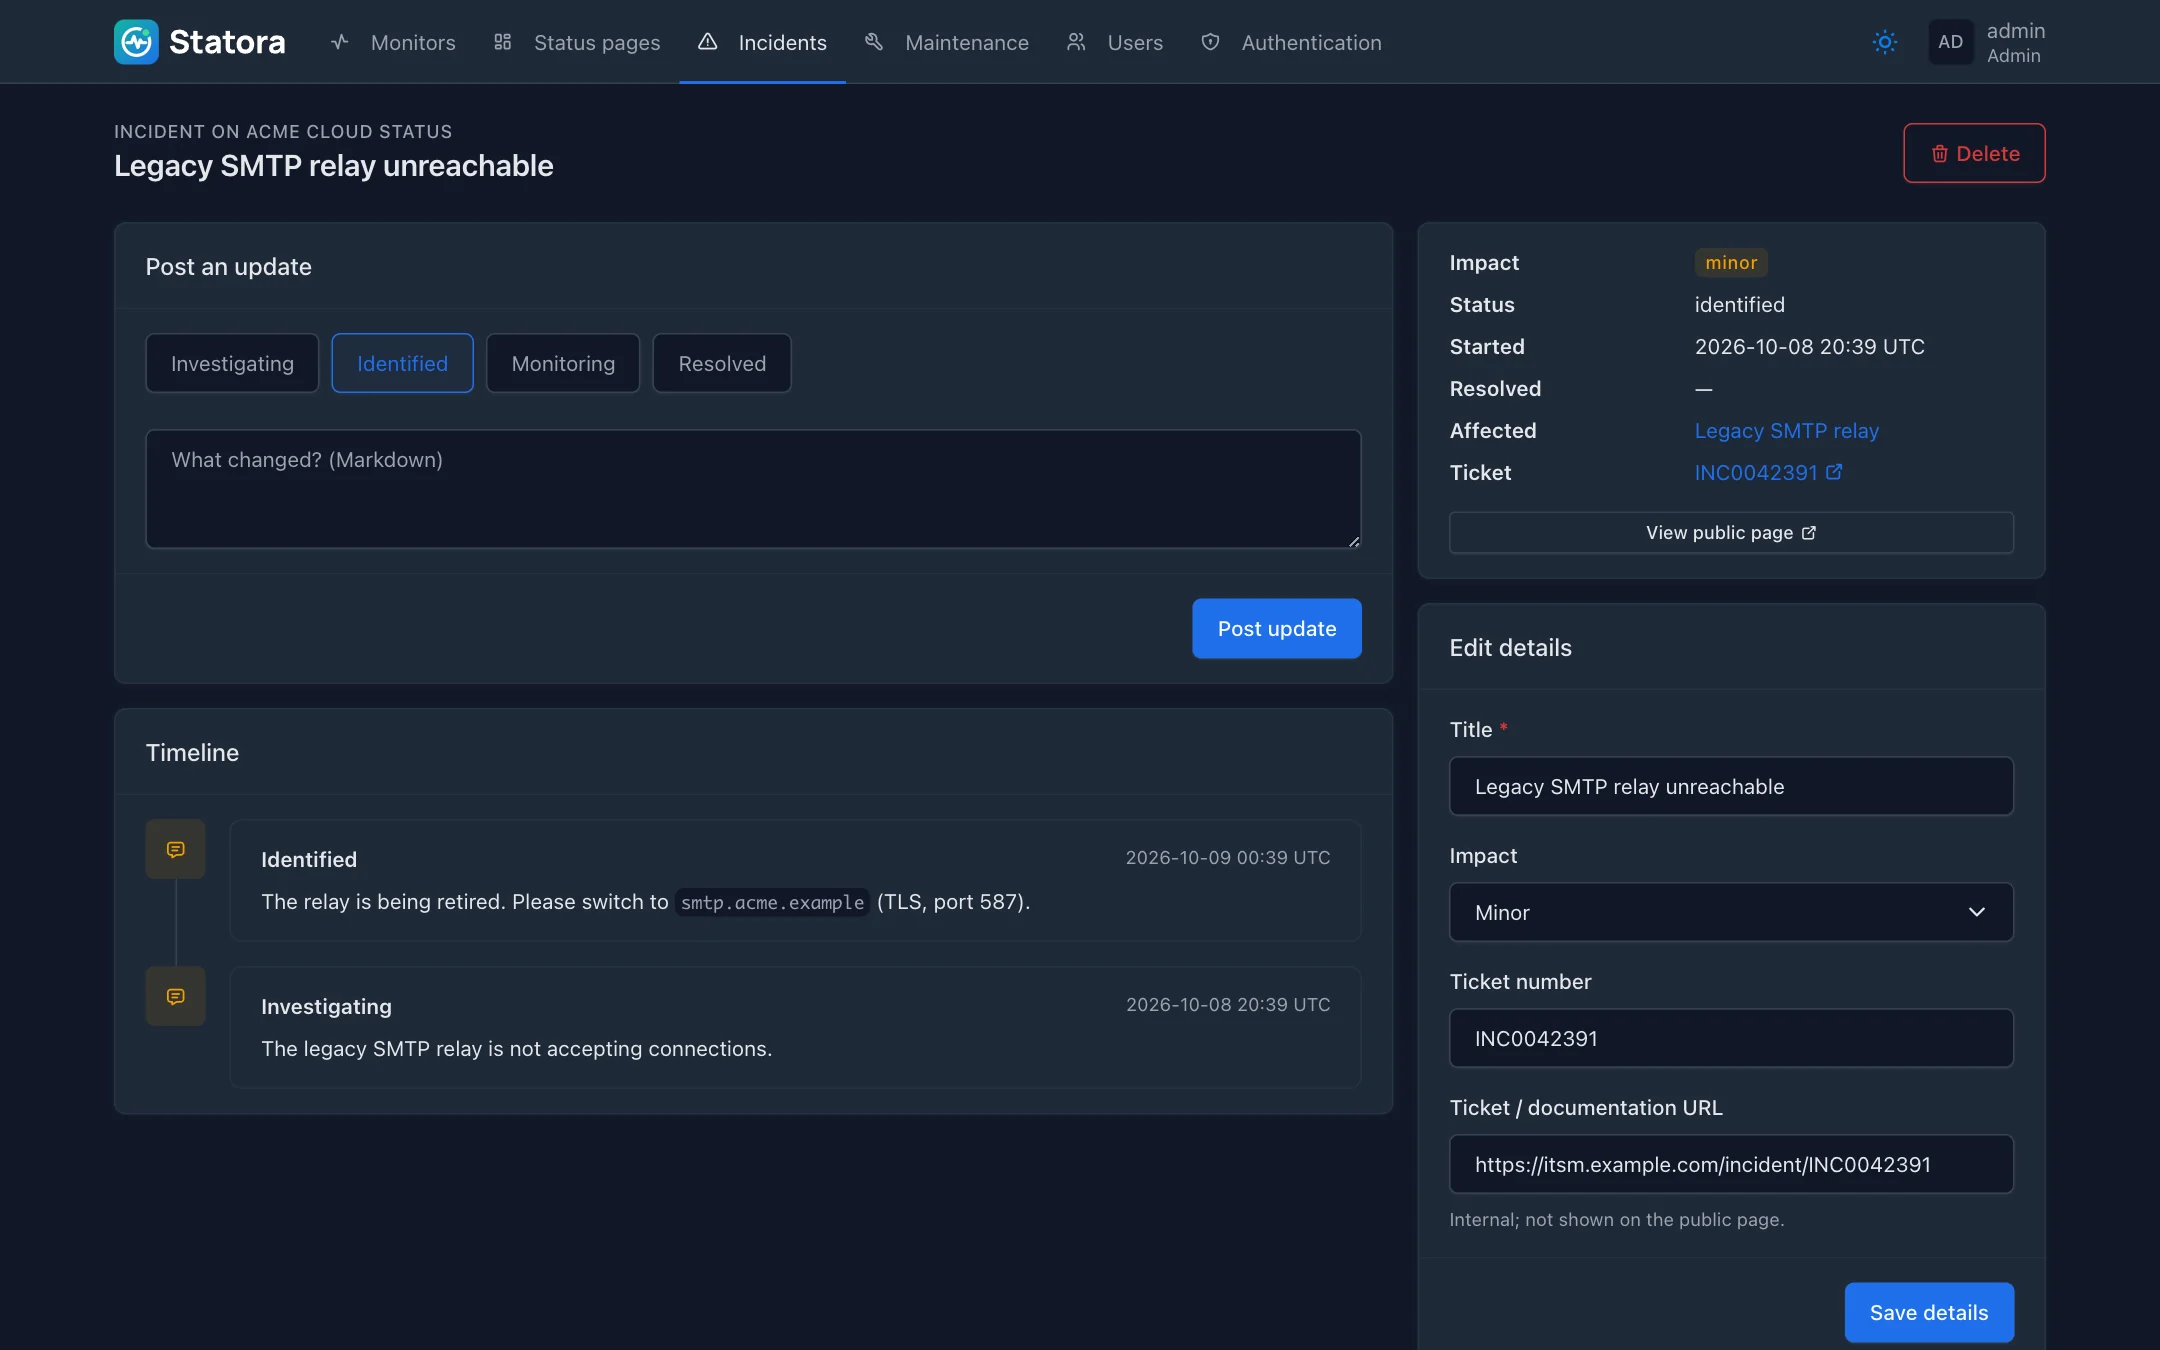
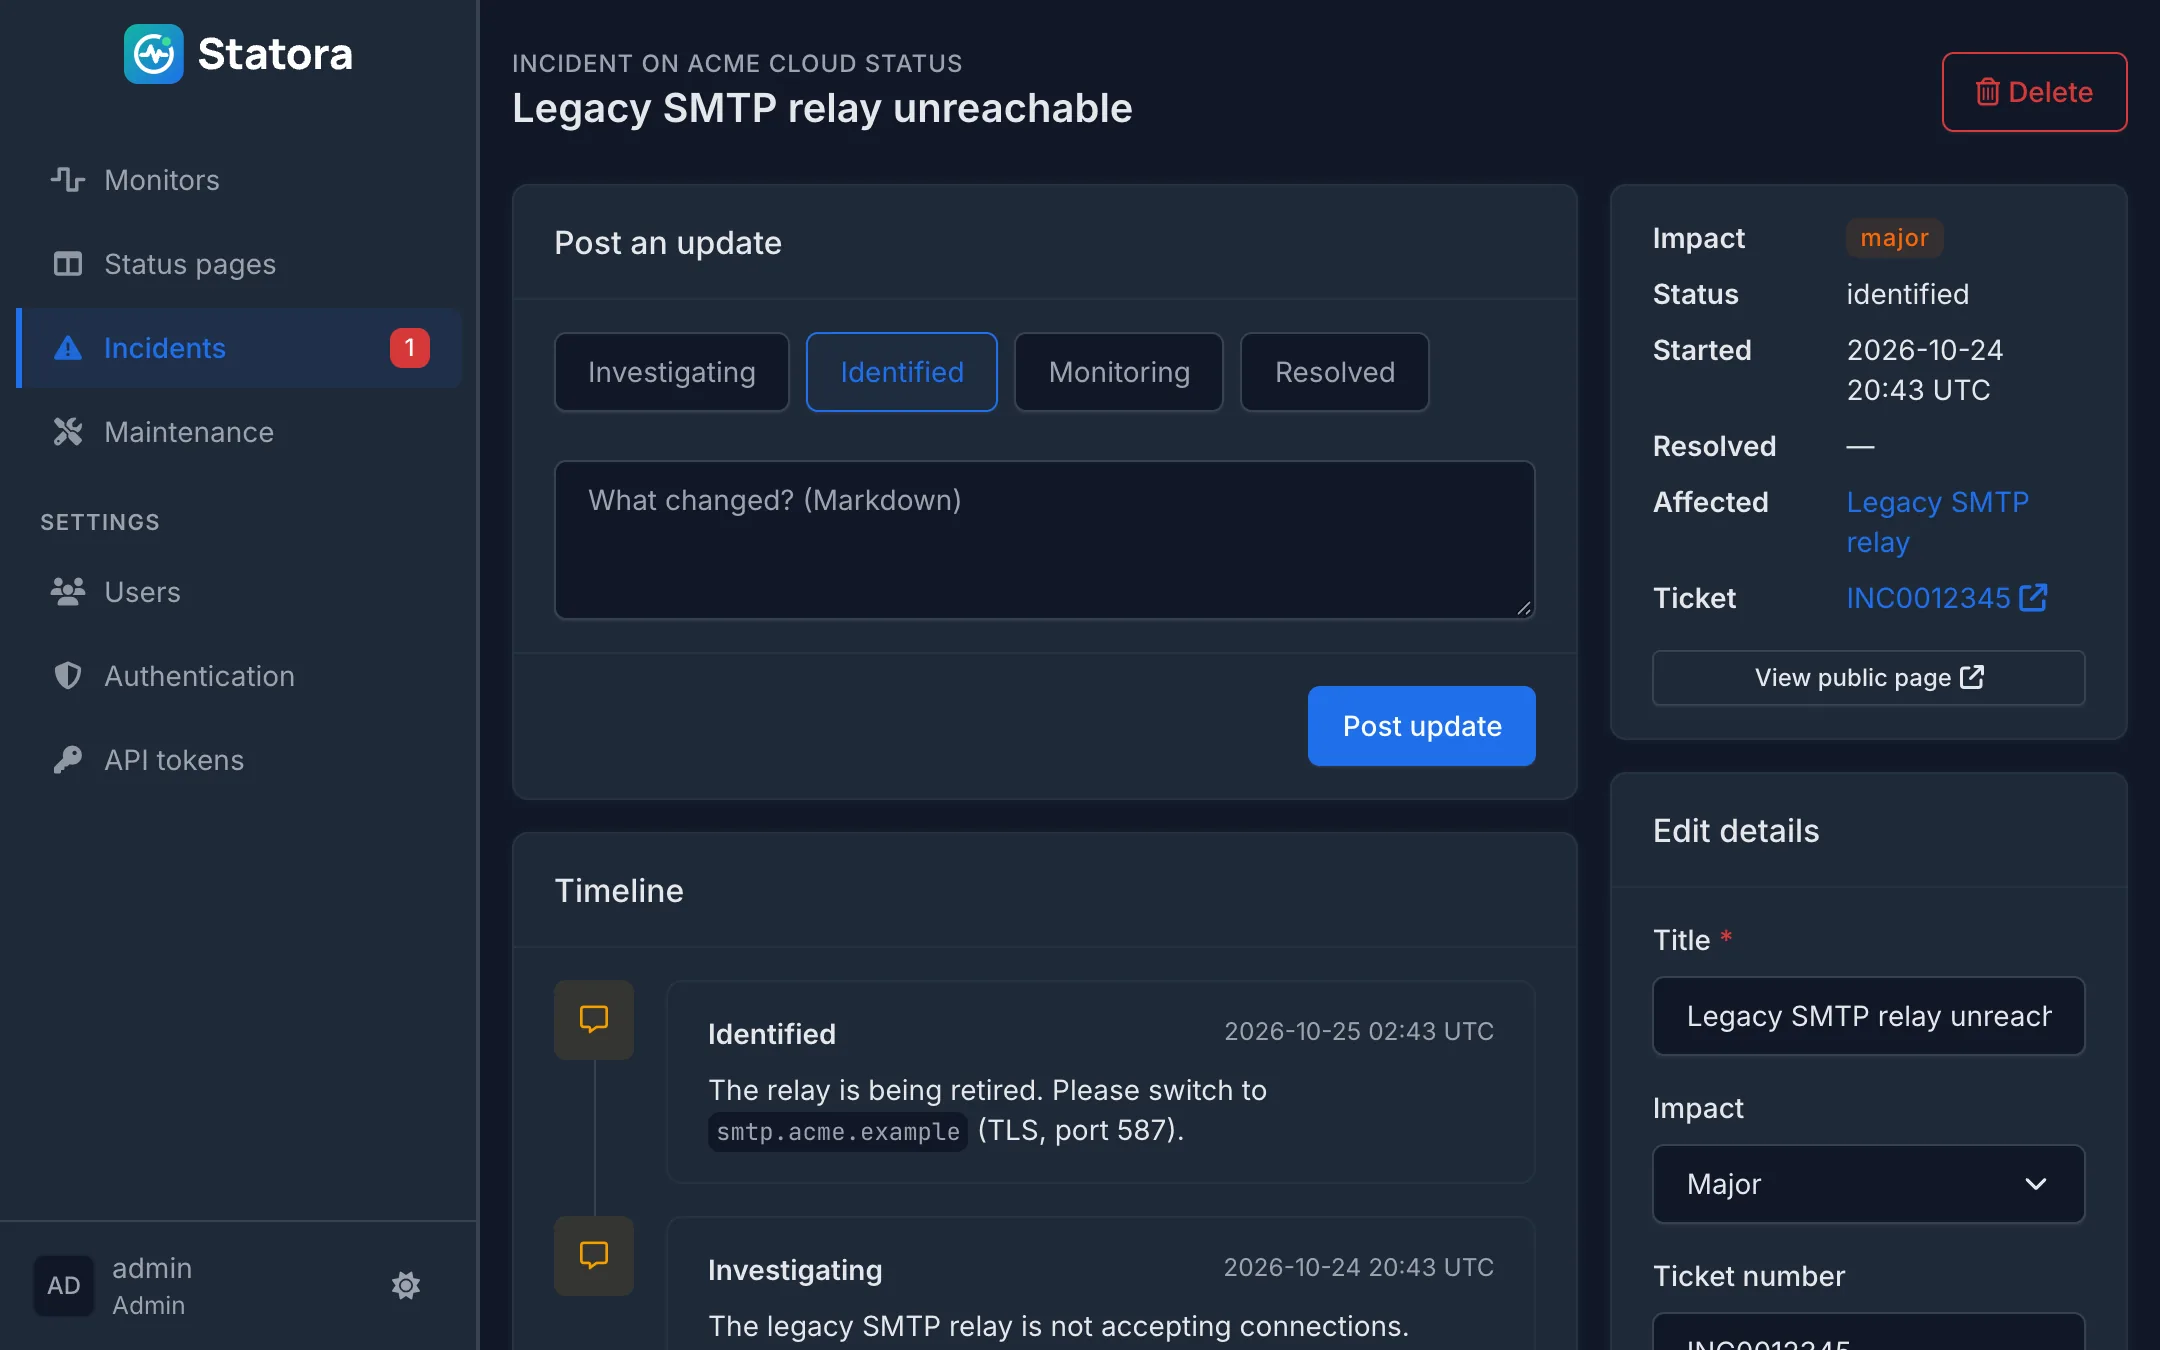
APP-23: Refresh the docs screenshots for the 1.2.0 design
- Retake all screenshots (2160x1350 WebP) from a seeded demo instance in
  the new design: sidebar, dashboard, status card and timeline, dialogs,
  icons and favicon.
- New screenshots: tile view, monitor icon picker, status pages overview
  and the status page settings dialog.
- Screenshots page captions and the monitors and status pages guides now
  describe the dashboard, tile view and wallboard, the dialogs, monitor
  icons and links, and per-page favicons.

diff --git a/docs/screenshots.md b/docs/screenshots.md
@@ -9,23 +9,31 @@ All screenshots come from a demo instance with sample data, using `statora seed`
 
 ## Status page
 
-<figure class="shot"><img src="/screenshots/status-page-light.webp" alt="Status page in light mode" loading="lazy"><figcaption>The public status page with an active incident, scheduled maintenance and 90-day uptime bars.</figcaption></figure>
+<figure class="shot"><img src="/screenshots/status-page-light.webp" alt="Status page in light mode" loading="lazy"><figcaption>The public status page: the overall status with the active incident's timeline, scheduled maintenance, and 120-day uptime bars. Components show their icon and link to the app behind them.</figcaption></figure>
 
 <figure class="shot"><img src="/screenshots/status-page-dark.webp" alt="Status page in dark mode with an expanded redundancy group" loading="lazy"><figcaption>Dark mode, with a redundancy group expanded to show its members.</figcaption></figure>
 
 ## Monitoring
 
-<figure class="shot"><img src="/screenshots/dashboard.webp" alt="Admin dashboard" loading="lazy"><figcaption>The dashboard: status counts, the last 30 checks, 24-hour uptime and latency for every monitor.</figcaption></figure>
+<figure class="shot"><img src="/screenshots/dashboard.webp" alt="Admin dashboard" loading="lazy"><figcaption>The dashboard: how many monitors are up, problems first, the last 30 checks, 24-hour uptime and latency. Search and filter by type, or press <kbd>/</kbd>.</figcaption></figure>
+
+<figure class="shot"><img src="/screenshots/dashboard-tiles.webp" alt="Monitors as tiles" loading="lazy"><figcaption>The tile view. Failing monitors get bigger tiles with the last error and quick actions; <code>/admin?kiosk=1</code> shows the tiles full screen as a wallboard.</figcaption></figure>
 
 <figure class="shot"><img src="/screenshots/monitor-detail.webp" alt="Monitor detail page with a latency chart" loading="lazy"><figcaption>Monitor details: 24-hour latency chart, status changes, configuration and the groups it belongs to.</figcaption></figure>
 
 <figure class="shot"><img src="/screenshots/group-detail.webp" alt="Redundancy group with its members" loading="lazy"><figcaption>A redundancy group and the live status of each member.</figcaption></figure>
 
-<figure class="shot"><img src="/screenshots/group-form.webp" alt="Creating a redundancy group with the two-column member picker" loading="lazy"><figcaption>Creating a group: stack or redundancy, the number of members that must be up, and a two-column member picker.</figcaption></figure>
+<figure class="shot"><img src="/screenshots/group-form.webp" alt="Editing a redundancy group with the two-column member picker" loading="lazy"><figcaption>Editing a group in a dialog: stack or redundancy, the number of members that must be up, and a two-column member picker.</figcaption></figure>
+
+<figure class="shot"><img src="/screenshots/monitor-icon.webp" alt="Choosing a monitor icon" loading="lazy"><figcaption>Giving a monitor an icon: search the bundled Font Awesome icons, upload an image or paste a URL, and add a link to the app behind it.</figcaption></figure>
 
 ## Status pages, incidents and maintenance
 
-<figure class="shot"><img src="/screenshots/page-builder.webp" alt="Status page editor" loading="lazy"><figcaption>The status page editor: components, public names, branding, and a button to open the live page.</figcaption></figure>
+<figure class="shot"><img src="/screenshots/status-pages.webp" alt="Status pages overview" loading="lazy"><figcaption>All status pages with their current status, favicon and size.</figcaption></figure>
+
+<figure class="shot"><img src="/screenshots/page-settings.webp" alt="Status page settings dialog" loading="lazy"><figcaption>Status page settings in a dialog: title, address, description, favicon, logo, accent colour and uptime bars.</figcaption></figure>
+
+<figure class="shot"><img src="/screenshots/page-builder.webp" alt="Status page components editor" loading="lazy"><figcaption>The components editor: groups, public names, and drag and drop to reorder.</figcaption></figure>
 
 <figure class="shot"><img src="/screenshots/incident.webp" alt="Incident with timeline and ITSM ticket" loading="lazy"><figcaption>An incident with its update timeline and an internal ITSM ticket reference.</figcaption></figure>
 

diff --git a/docs/guide/status-pages.md b/docs/guide/status-pages.md
@@ -4,6 +4,8 @@ Status pages are public, need no login, and are built under **Status pages** in 
 
 ## Building a page
 
+**New status page** opens a dialog with the page settings. After creating the page you land in its components editor. Later, **Settings** (on the overview or in the editor) reopens the settings dialog and **Components** opens the editor.
+
 - **Title, slug and description**: the page lives at `/s/<slug>`. The description and footer accept Markdown.
 - **Components**: add groups (such as "Websites" or "Infrastructure") and fill them with monitors, each with an optional public name. Drag groups and monitors by their grip handle to reorder them, or drag a monitor into another group. The arrow buttons do the same from the keyboard.
 - **Uptime bars**: how much history each component shows. Every option draws 120 bars:
@@ -16,17 +18,20 @@ Status pages are public, need no login, and are built under **Status pages** in 
 
   Minute and hour bars are calculated from raw check results, so they reach back only as far as `STATORA_HEARTBEAT_RETENTION_DAYS` (default 30 days). Keep it at 5 days or more for hourly bars. A monitor that checks less often than once a minute (or hour) has bars without a check of their own. They continue the previous result, and their tooltip says so.
 - **Accent colour and logo**: shown in the header and used for links.
+- **Favicon**: the browser-tab icon of this page. Upload a PNG, SVG, ICO, WebP, GIF or JPEG (up to 256 KB) or paste a URL. Without one, the page uses the Statora icon.
 - **Published**: unpublished pages return 404.
 - **Default page**: served at `/` as well.
 - **Show "Powered by Statora"**: on by default; switch it off for a fully white-label page.
 
 The **View status page** button at the top of the editor opens the live page.
 
+Icons and links shown next to components are set on the monitors themselves (see [Monitors](./monitors)), so they're the same on every page.
+
 ## What visitors see
 
-- An overall banner: *All Systems Operational*, *Degraded Performance*, *Partial* or *Major System Outage*, or *Under Maintenance*. It's derived from component states and the impact of active incidents.
-- Active incidents with their full timeline, and upcoming or ongoing maintenance.
-- Every component with 120 uptime bars, per minute, hour or day depending on the page. Hovering a bar shows its uptime and failed checks.
+- An overall status card: *All Systems Operational*, *Degraded Performance*, *Partial* or *Major System Outage*, or *Under Maintenance*. It's derived from component states and the impact of active incidents, and says how many components are affected.
+- Active incidents with their full timeline inside the status card, and upcoming or ongoing maintenance.
+- Every component with its icon, its uptime, and 120 uptime bars, per minute, hour or day depending on the page. Hovering a bar shows its uptime and failed checks. Components with a link open the app behind them.
 - Groups that expand to show their members.
 - Incidents from the last 14 days.
 - A light/dark toggle. The page follows the visitor's system setting until they choose, then remembers the choice.

diff --git a/docs/guide/monitors.md b/docs/guide/monitors.md
@@ -1,6 +1,6 @@
 # Monitors
 
-A monitor runs one check on a schedule. Create one under **Monitors → New monitor**, or with `POST /api/v1/monitors`.
+A monitor runs one check on a schedule. Create one under **Monitors → New monitor** (or press <kbd>n</kbd> on the monitor list), or with `POST /api/v1/monitors`. The form opens in a dialog over the list.
 
 ## Common settings
 
@@ -11,6 +11,15 @@ A monitor runs one check on a schedule. Create one under **Monitors → New moni
 | Retries before down | 1 (UI) / 0 (API) | Extra consecutive failures tolerated. While retrying, the monitor shows as pending and the failures still count as up. |
 | Degraded above | none | Responses slower than this (ms) report *degraded* instead of *up*. |
 | Active | on | Paused monitors keep their history but aren't checked. |
+
+## Icon and link
+
+Under **Appearance** a monitor can get:
+
+- an **icon**: pick one of the bundled Font Awesome icons (brand logos included), upload an image (PNG, JPEG, WebP, GIF, ICO or SVG, up to 256 KB), or paste an image URL. In the API this is `icon`: `fa:brands:github`, an upload's `media:<sha256>` from `POST /api/v1/media`, or an http(s) URL;
+- a **link** (`link_url`) to the app behind the monitor, http(s) only.
+
+Both show in the monitor list and on every status page that includes the monitor. There, the component name links to the app.
 
 ## HTTP(S)
 
@@ -73,7 +82,8 @@ The query runs in a read-only transaction that is always rolled back: PostgreSQL
 
 ## What you see
 
-- The **dashboard** shows every monitor with its last 30 checks, 24-hour uptime and latency, and refreshes itself every 15 seconds.
+- The **dashboard** shows how many monitors are up, then every monitor with its last 30 checks, 24-hour uptime and latency, failing ones first. It refreshes itself every 15 seconds. Search with <kbd>/</kbd>, filter by problems or type, and expand groups to see their members.
+- The **tile view** (the grid button above the list) shows the same monitors as tiles; `/admin?kiosk=1` shows them full screen without the sidebar, for a wallboard.
 - Each row on the dashboard has an options menu (<kbd>⋮</kbd>, for editors and admins) to **pause or resume** the monitor without leaving the list, **clone** it, or edit it.
 - The **detail page** adds a 24-hour latency chart, the list of status changes, uptime over 24 h and 30 days, and the groups the monitor belongs to. It refreshes itself too.
 
